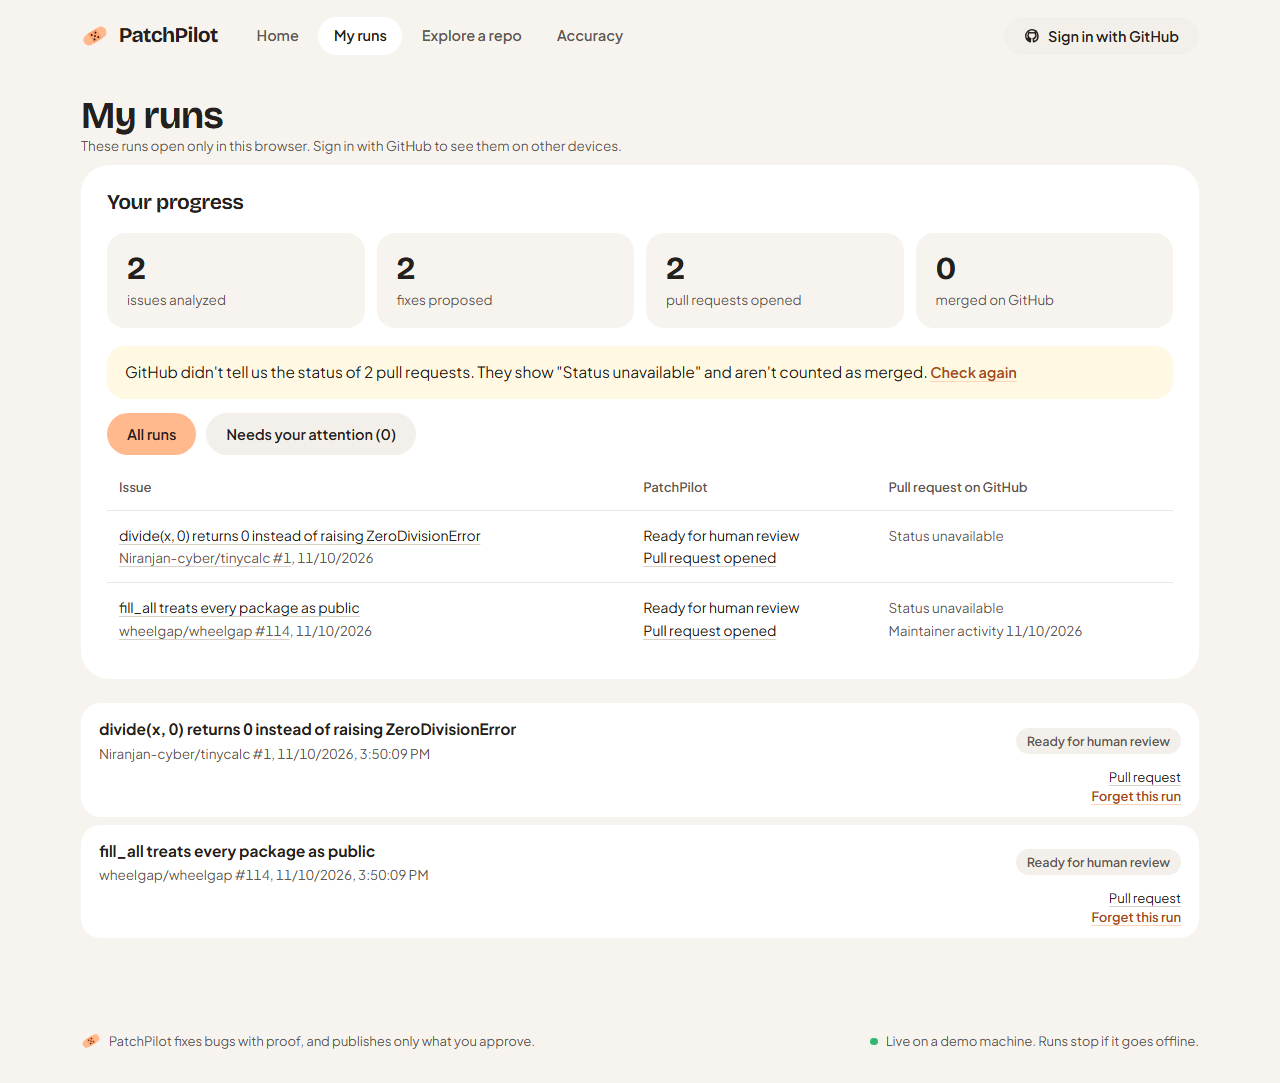
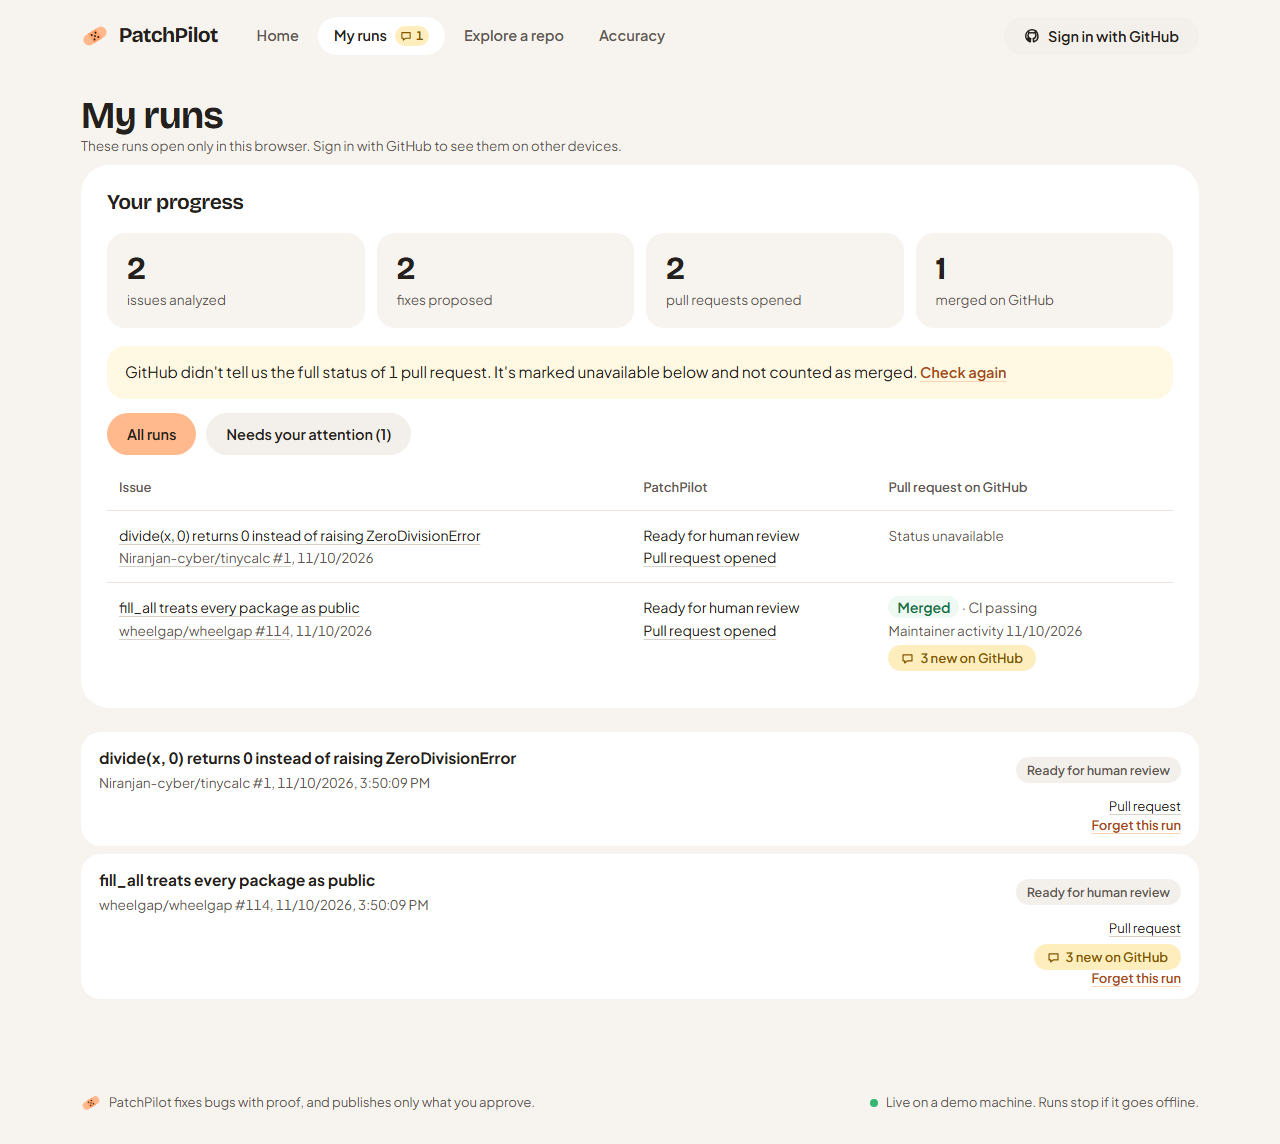
PR history: review round 2 (#101)
- 375 px: My runs table stacks each run, so the PR column is readable;
  e2e checks the PR cell itself, not just the page width
- nav badge re-reads stored counts every 2 min while visible and on focus
- PR page: 'Checking GitHub' until first checked; the Ready-for-review step
  only for drafts; the unavailable notice matches the row wording
- time budget checked before every GitHub call (and caps its timeout);
  page load bounded to 8 s; unfinished PRs are unavailable, not stored, and
  read first next time

diff --git a/web/src/Progress.tsx b/web/src/Progress.tsx
@@ -49,8 +49,8 @@ export default function ProgressView() {
         <div className="stat"><strong>{c.pr_merged}</strong><span>merged on GitHub</span></div>
       </div>
       {p.state === "partial" && (
-        <p className="notice warn">GitHub didn't tell us the status of {c.pr_status_unknown} pull request{c.pr_status_unknown > 1 ? "s" : ""}.
-          They show "Status unavailable" and aren't counted as merged. <button className="linklike" onClick={load}>Check again</button></p>
+        <p className="notice warn">GitHub didn't tell us the full status of {c.pr_status_unknown} pull request{c.pr_status_unknown > 1 ? "s" : ""}.
+          {c.pr_status_unknown > 1 ? " They're" : " It's"} marked unavailable below and not counted as merged. <button className="linklike" onClick={load}>Check again</button></p>
       )}
       <div className="row history-filter" role="group" aria-label="Show">
         <button className={attention ? "secondary" : ""} aria-pressed={!attention} onClick={() => setAttention(false)}>All runs</button>
@@ -64,12 +64,12 @@ export default function ProgressView() {
           <tbody>
             {rows.map((r) => (
               <tr key={r.run_id}>
-                <td><Link to={`/runs/${r.run_id}`}>{r.title}</Link><br />
+                <td data-label="Issue"><Link to={`/runs/${r.run_id}`}>{r.title}</Link><br />
                   <span className="hint"><a href={r.issue_url}>{r.repo} #{r.number}</a>, {new Date(r.created_at).toLocaleDateString()}</span></td>
-                <td>{r.patchpilot.readiness ?? (r.patchpilot.status === "awaiting_approval" ? "Needs your approval" : "Still working")}
+                <td data-label="PatchPilot">{r.patchpilot.readiness ?? (r.patchpilot.status === "awaiting_approval" ? "Needs your approval" : "Still working")}
                   {r.patchpilot.pr_url && <><br /><a href={r.patchpilot.pr_url}>Pull request opened</a></>}
                   {!r.patchpilot.pr_url && r.patchpilot.compare_url && <><br /><a href={r.patchpilot.compare_url}>Branch pushed (open the PR yourself)</a></>}</td>
-                <td>{!r.has_pr ? <span className="hint">No pull request</span> : <>
+                <td data-label="Pull request on GitHub" className="pr-cell">{!r.has_pr ? <span className="hint">No pull request</span> : <>
                   {r.github_pr_status ? <span className={`gh-${r.github_pr_status}`}>{GH[r.github_pr_status]}</span>
                     : <span className="hint">Status unavailable</span>}
                   {r.ci && <span className={`ci ci-${r.ci}`}> · {CI[r.ci]}</span>}

diff --git a/web/src/Publish.tsx b/web/src/Publish.tsx
@@ -261,7 +261,8 @@ export function PrOpened() {
         <p className="lede">On {run.issue.repo}, for issue #{run.issue.number}. {st === "merged" ? "A maintainer merged it."
           : st === "closed" ? "A maintainer closed it without merging. That isn't automatically a failure."
           : st === "draft" ? "It's a draft, so nothing merges until a maintainer decides."
-          : st ? "A maintainer decides whether to merge it." : fb.f || fb.err ? "We couldn't read its current status on GitHub." : "Checking its status on GitHub…"}</p>
+          : st ? "A maintainer decides whether to merge it." : fb.err || fb.f?.tracked ? "We couldn't read its current status on GitHub."
+          : "Checking GitHub…"}</p>
         <a className="button" href={fin.pr_url}>Open on GitHub</a>
         <p className="pr-url"><code>{fin.pr_url}</code></p>
         {run.pr?.fork_owner && <p className="hint">From your fork, {run.pr.fork_owner}/{run.issue.repo.split("/")[1]}.</p>}
@@ -271,8 +272,9 @@ export function PrOpened() {
       {st !== "merged" && st !== "closed" && <>
       <h2>What happens next</h2>
       <ol className="next">
+        {st === "draft" && <>
         <li>Open your draft pull request on GitHub and read it once more.</li>
-        <li>When you're happy, click <strong>Ready for review</strong> on GitHub.</li>
+        <li>When you're happy, click <strong>Ready for review</strong> on GitHub.</li></>}
         <li>A maintainer may ask for changes. That's normal.</li>
         <li>If they do, come back and use <Link to={`/runs/${id}/review`}>Revise</Link>; we'll update the same pull request.</li>
       </ol></>}

diff --git a/tests/e2e/pr-feedback.spec.ts b/tests/e2e/pr-feedback.spec.ts
@@ -26,6 +26,12 @@ for (const [w, h] of [[1280, 900], [375, 812]] as const) {
     await page.goto(`${BASE}/my-runs`);
     await expect(page.getByRole("heading", { name: "Your progress" })).toBeVisible({ timeout: 30_000 });
     expect(await page.evaluate(() => document.documentElement.scrollWidth)).toBeLessThanOrEqual(w);
+    // the page fitting isn't enough: the PR cell itself must be fully readable inside its card
+    const clipped = await page.$$eval(".pr-cell", (cells) => cells.filter((td) => {
+      const box = td.closest(".table-wrap")!.getBoundingClientRect(), r = td.getBoundingClientRect();
+      return td.scrollWidth > td.clientWidth + 1 || r.right > box.right + 1 || r.left < box.left - 1;
+    }).length);
+    expect(clipped).toBe(0);
     await page.screenshot({ path: `${shots}/history-${w}-myruns.png`, fullPage: true });
     await page.goto(`${BASE}/runs/${run}/pr`);
     await expect(page.getByRole("heading", { name: "Maintainer feedback" })).toBeVisible();

diff --git a/web/src/index.css b/web/src/index.css
@@ -378,6 +378,13 @@
   /* my runs */
   .progress { background: #fff; border-radius: var(--radius-card); padding: 24px 26px; margin: 8px 0 24px; }
   .progress .table-wrap { padding: 0; }
+  @media (max-width: 640px) {   /* stack each run: the PR column is the point of this table and must stay readable */
+    .progresstable thead { display: none; }
+    .progresstable, .progresstable tbody, .progresstable tr, .progresstable td { display: block; width: auto; }
+    .progresstable tr { padding: 12px 0; border-bottom: 1px solid var(--color-soft); }
+    .progresstable td { padding: 4px 0; border: 0; }
+    .progresstable td::before { content: attr(data-label); display: block; font-size: 12px; font-weight: 600; color: var(--color-muted); }
+  }
 }
 
 @media (max-width: 900px) {

diff --git a/web/src/MyRuns.tsx b/web/src/MyRuns.tsx
@@ -13,8 +13,12 @@ export function useMyRuns() {
   const load = () => api<Item[]>("/api/me/runs").then(setItems).catch(setErr);
   useEffect(() => {
     load();
+    // the badge is an alert: re-read the stored counts (no GitHub call) every 2 min while visible, and on focus
+    const tick = () => { if (document.visibilityState === "visible") load(); };
+    const t = window.setInterval(tick, 120_000);
     window.addEventListener(RUNS_CHANGED, load);
-    return () => window.removeEventListener(RUNS_CHANGED, load);
+    window.addEventListener("focus", tick);
+    return () => { window.clearInterval(t); window.removeEventListener(RUNS_CHANGED, load); window.removeEventListener("focus", tick); };
   }, []);
   return { items, err, load };
 }

diff --git a/backend/github/progress.py b/backend/github/progress.py
@@ -72,11 +72,19 @@ def feedback(author: str | None, reviews, review_comments, issue_comments, check
     return sorted(out, key=lambda f: f["at"] or "")
 
 
-def _cget(c, h: httpx.Client, path: str):
-    """Conditional GET: a 304 reuses the stored body and doesn't count against GitHub's rate limit."""
+class OutOfTime(Exception):
+    """The caller's time budget ran out before this GitHub call."""
+
+
+def _cget(c, h: httpx.Client, path: str, stop: float | None = None):
+    """Conditional GET: a 304 reuses the stored body and doesn't count against GitHub's rate limit.
+    stop (monotonic deadline): no call starts after it, and none may run past it."""
+    left = stop - time.monotonic() if stop else 10
+    if left <= 0:
+        raise OutOfTime(path)
     old = json.loads(db.get_kv(c, f"gh_etag:{path}") or "null")
     try:
-        r = h.get(path, headers={"If-None-Match": old["etag"]} if old else {})
+        r = h.get(path, headers={"If-None-Match": old["etag"]} if old else {}, timeout=min(10, left))
     except httpx.HTTPError:
         return None
     if r.status_code == 304 and old:
@@ -87,18 +95,18 @@ def _cget(c, h: httpx.Client, path: str):
     return body
 
 
-def snapshot(c, h: httpx.Client, repo: str, n: int) -> dict:
+def snapshot(c, h: httpx.Client, repo: str, n: int, stop: float | None = None) -> dict:
     """Everything is read with the read-only token. A missing PR read is "unavailable". A failed or truncated sub-read
     marks the snapshot partial (refresh keeps the earlier feedback) and never makes the PR look cleaner than it is."""
-    pr = _cget(c, h, f"/repos/{repo}/pulls/{n}")
+    pr = _cget(c, h, f"/repos/{repo}/pulls/{n}", stop)
     if not isinstance(pr, dict) or "state" not in pr:
         return {"state": None, "ci": None}
     author = (pr.get("user") or {}).get("login")
-    rv = _cget(c, h, f"/repos/{repo}/pulls/{n}/reviews?per_page=100")
-    rc = _cget(c, h, f"/repos/{repo}/pulls/{n}/comments?per_page=100")
-    ic = _cget(c, h, f"/repos/{repo}/issues/{n}/comments?per_page=100")
+    rv = _cget(c, h, f"/repos/{repo}/pulls/{n}/reviews?per_page=100", stop)
+    rc = _cget(c, h, f"/repos/{repo}/pulls/{n}/comments?per_page=100", stop)
+    ic = _cget(c, h, f"/repos/{repo}/issues/{n}/comments?per_page=100", stop)
     sha = (pr.get("head") or {}).get("sha")
-    ck = _cget(c, h, f"/repos/{repo}/commits/{sha}/check-runs?per_page=100") if sha else None
+    ck = _cget(c, h, f"/repos/{repo}/commits/{sha}/check-runs?per_page=100", stop) if sha else None
     fb = feedback(author, rv, rc, ic, ck)
     lists_ok = [isinstance(x, list) and len(x) < PAGE for x in (rv, rc, ic)]
     partial = not all(lists_ok) or not isinstance(ck, dict) or (ck.get("total_count") or 0) > len(ck.get("check_runs") or [])
@@ -131,11 +139,12 @@ def merge(prev: dict, snap: dict | None) -> dict:
 
 def refresh(c, runs: list[RunView], *, budget: float | None = None) -> dict[str, dict]:
     """Re-read each PR once (runs sharing a PR share the read) and store it per run. Merged/closed PRs aren't re-read.
-    Rate limited -> the rest are "unavailable" now, keeping their last feedback. budget (s): stop and leave the rest
-    as they were, for the worker's next tick."""
+    Rate limited -> the rest are "unavailable" now, keeping their last feedback. budget (s): no GitHub call runs past
+    it; PRs not finished in time are returned as "unavailable" but not stored, so the next tick or load retries them."""
     todo = [v for v in runs if key(v)]
     out = {v.run_id: tracked(c, v.run_id) for v in todo}
-    want = [v for v in todo if out[v.run_id].get("state") not in DONE]
+    # least recently checked first, so a PR that missed a budget isn't starved by the same PRs every time
+    want = sorted((v for v in todo if out[v.run_id].get("state") not in DONE), key=lambda v: out[v.run_id].get("checked_at") or "")
     if not want:
         return out
     stop, limited, read = (time.monotonic() + budget) if budget else None, False, {}
@@ -144,21 +153,22 @@ def refresh(c, runs: list[RunView], *, budget: float | None = None) -> dict[str,
             for v in want:
                 k = key(v)
                 if k not in read:
-                    if stop and time.monotonic() > stop:
-                        break
                     snap = None
                     if not limited:
                         try:
-                            snap = snapshot(c, h, v.issue.repo, v.pr.number)
+                            snap = snapshot(c, h, v.issue.repo, v.pr.number, stop)
                         except GitHubError:
                             limited = True
+                        except OutOfTime:
+                            break
                     read[k] = snap
-                out[v.run_id] = merge(out[v.run_id], read[k])
+                out[v.run_id] = {**merge(out[v.run_id], read[k]), "checked_at": db.now().isoformat()}
                 db.put_kv(c, f"pr_track:{v.run_id}", json.dumps(out[v.run_id]))
     except Exception:
-        for v in want:
-            if key(v) not in read:
-                out[v.run_id] = merge(out[v.run_id], None)
+        pass
+    for v in want:
+        if key(v) not in read:          # not reached in time (or the client failed): unavailable for now, not stored
+            out[v.run_id] = merge(out[v.run_id], None)
     return out
 
 

diff --git a/tests/test_pr_history.py b/tests/test_pr_history.py
@@ -162,6 +162,46 @@ def test_merged_prs_are_not_re_read_and_shared_prs_are_read_once(c, monkeypatch)
     assert P.refresh(c, [v, w])[v.run_id]["state"] == "merged" and calls == []      # done: stored state, no reads
 
 
+def test_budget_is_checked_before_every_github_call(c, monkeypatch):
+    import time as t
+    calls, routes = [], opened()
+
+    def slow(path):
+        def h(req):
+            t.sleep(0.25)
+            return httpx.Response(200, json=routes[path])
+        return h
+    monkeypatch.setattr(P, "_client", github({k: slow(k) for k in routes}, calls))
+    v = new_run(c)
+    out = P.refresh(c, [v], budget=0.6)                                            # room for ~2 of the 5 reads
+    assert 1 <= len(calls) <= 3                                                     # stopped mid-PR, not after it
+    assert out[v.run_id]["state"] is None                                           # unavailable for now...
+    assert P.tracked(c, v.run_id) == {}                                             # ...and not stored: the next tick retries
+
+
+def test_a_pr_that_missed_the_budget_is_read_first_next_time(c, monkeypatch):
+    v, w = new_run(c), new_run(c)
+    w.pr = w.pr.model_copy(update={"number": 134, "url": f"https://github.com/{REPO}/pull/134"})
+    db.save_run(c, w)
+    order = []
+
+    def one_per_call(c_, h, repo, n, stop=None):          # time for one PR per refresh
+        if order and order[-1][1] == "call":
+            raise P.OutOfTime(str(n))
+        order.append((n, "call"))
+        return {"state": "open", "ci": None, "partial": False, "last_activity_at": None, "feedback": []}
+    monkeypatch.setattr(P, "_client", github({}))
+    monkeypatch.setattr(P, "snapshot", one_per_call)
+    first = P.refresh(c, [v, w], budget=8)
+    order.append((None, "next"))
+    second = P.refresh(c, [v, w], budget=8)
+    read = [n for n, k in order if k == "call"]
+    assert len(read) == 2 and read[0] != read[1]                                    # the other PR goes first next time
+    assert {first[v.run_id]["state"], first[w.run_id]["state"]} == {"open", None}
+    assert {second[v.run_id]["state"], second[w.run_id]["state"]} == {"open", None}
+    assert P.tracked(c, v.run_id)["state"] == P.tracked(c, w.run_id)["state"] == "open"   # both stored after two loads
+
+
 def test_poll_stops_at_its_time_budget(c, monkeypatch):
     calls = []
     monkeypatch.setattr(P, "_client", github(opened(), calls))

diff --git a/tests/test_progress.py b/tests/test_progress.py
@@ -1,8 +1,6 @@
 """B16: My progress. Counts never conflate outcomes; GitHub PR status is fetched, never guessed."""
 from datetime import datetime, timezone
 
-import pytest
-
 from backend.contracts.models import IssueSpec, Outcome, PullRequestRef, RunStatus, RunView
 from backend.github import progress as P
 
@@ -51,11 +49,12 @@ def test_api_progress_is_owner_scoped_and_reports_unknown(tmp_path, monkeypatch)
     from backend import db
     from backend.api import main
     monkeypatch.setattr(db, "DB_PATH", str(tmp_path / "app.db"))
-    monkeypatch.setattr(P, "refresh", lambda c, runs: {v.run_id: {"state": None, "ci": None} for v in runs if v.pr})
+    monkeypatch.setattr(P, "refresh", lambda c, runs, **k: {v.run_id: {"state": None, "ci": None} for v in runs if v.pr})
     a, b = (TestClient(main.app, base_url="https://testserver") for _ in range(2))
     assert a.get("/api/me/progress").json()["state"] == "empty"            # no cookie yet
     from backend.api import session
-    a.cookies.set("pp_sid", "tok-a"); b.cookies.set("pp_sid", "tok-b")
+    a.cookies.set("pp_sid", "tok-a")
+    b.cookies.set("pp_sid", "tok-b")
     c = db.connect()
     for tok in ("tok-a", "tok-b"):
         with db.tx(c):

diff --git a/backend/api/main.py b/backend/api/main.py
@@ -252,7 +252,7 @@ def my_progress(request: Request):
     sid, a = session.current(request), session.account(request)
     c = db.connect()
     runs = db.list_runs(c, sid, a["id"] if a else None) if sid else []
-    snaps = progress.refresh(c, runs)      # page load re-reads GitHub; the worker also polls every 10 min
+    snaps = progress.refresh(c, runs, budget=8)   # page load re-reads GitHub (bounded); the worker also polls every 10 min
     gh = {progress.key(v): snaps[v.run_id].get("state") for v in runs if v.run_id in snaps}
     extra = {rid: {"ci": s.get("ci"), "last_activity_at": s.get("last_activity_at"),
                    "new_feedback": len(progress.new_feedback(c, rid, s))} for rid, s in snaps.items()}
